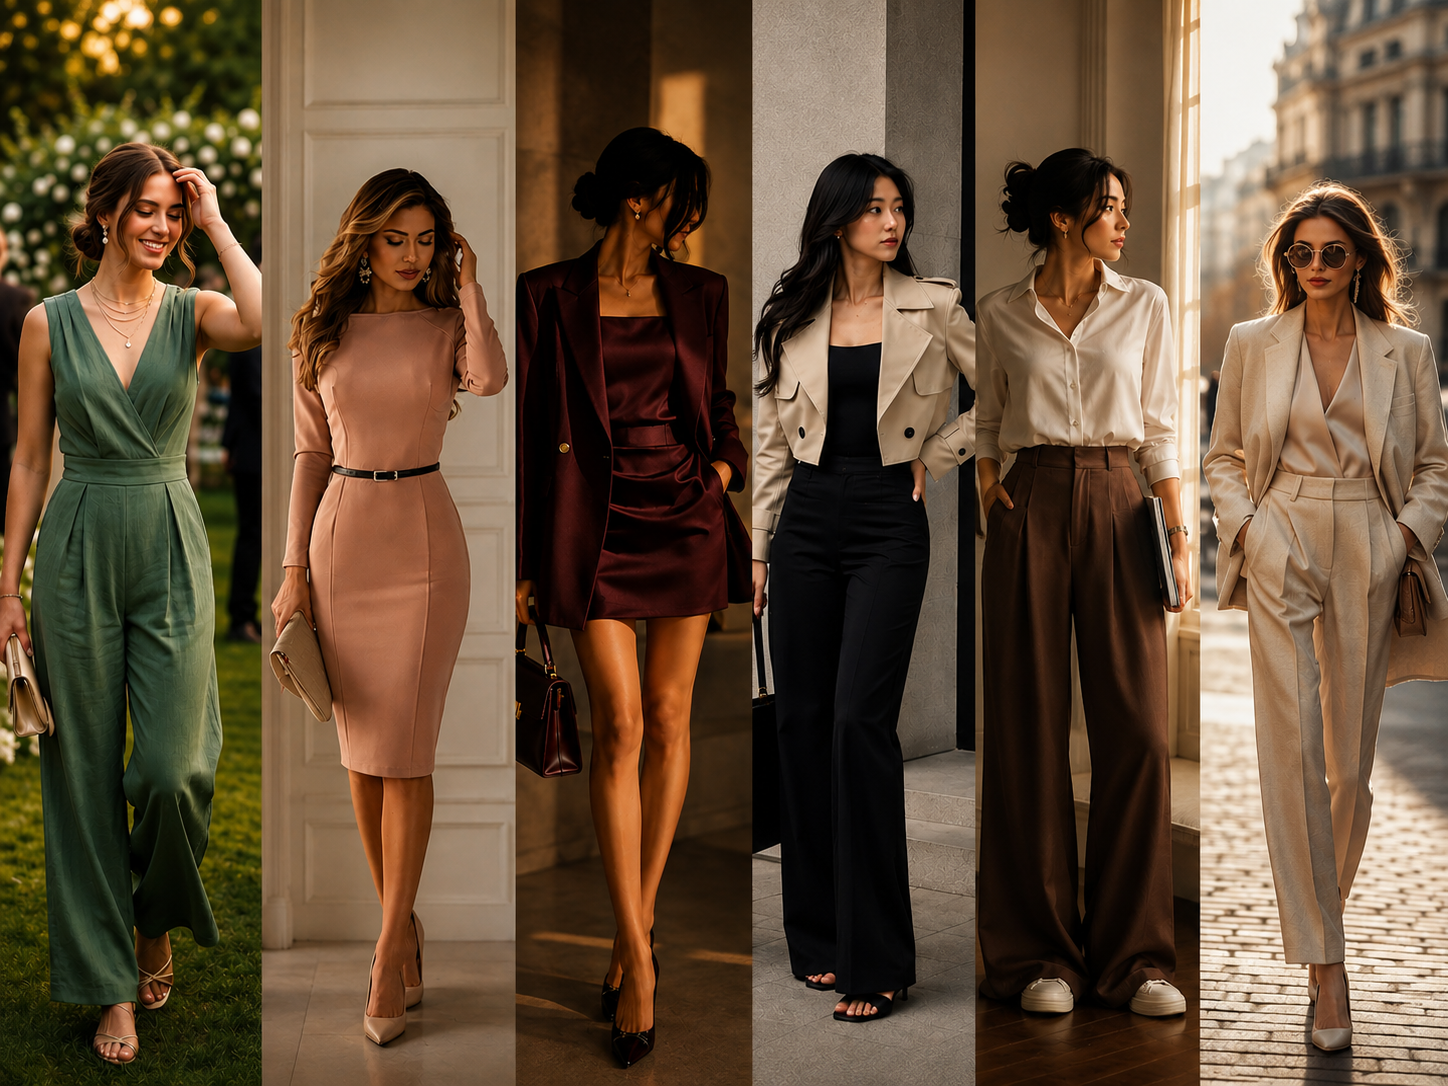
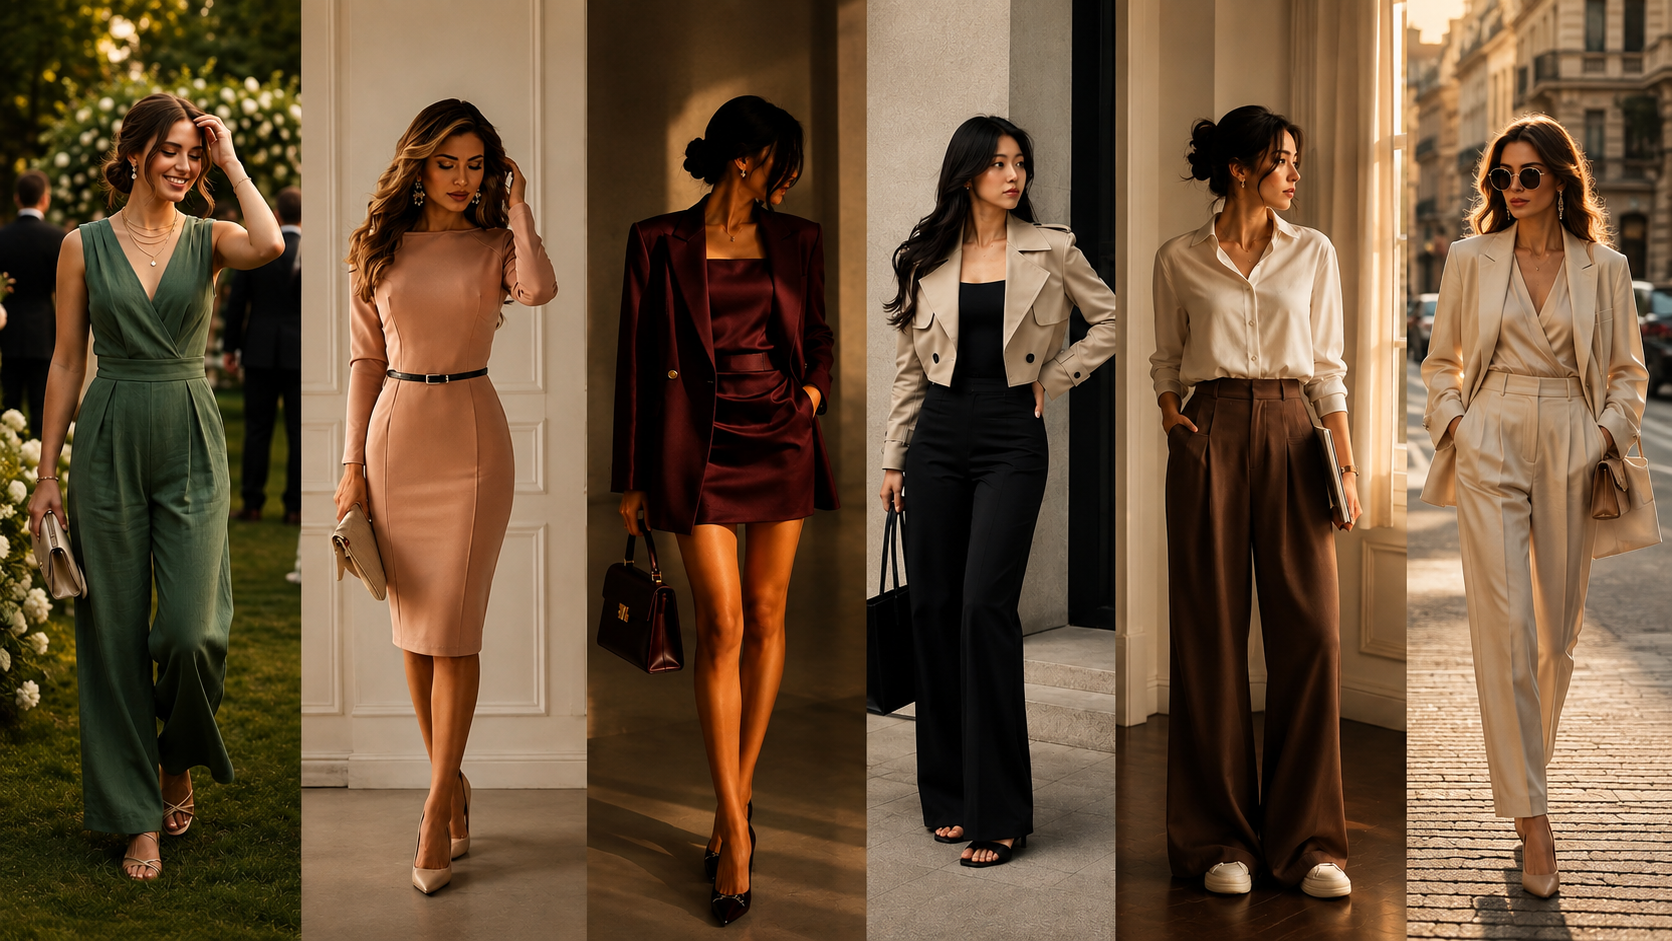
Change image position to object-top to prevent head cropping

diff --git a/frontend/src/screens/HomeScreen.jsx b/frontend/src/screens/HomeScreen.jsx
@@ -227,7 +227,7 @@ export default function HomeScreen() {
             onClick={() => navigate('/onboarding', { state: { resetStep: true } })} 
             className="group cursor-pointer relative overflow-hidden rounded-2xl md:col-span-2 h-[260px] md:h-[300px] shadow-[0_4px_24px_rgba(0,0,0,0.08)]"
           >
-             <img src="/DISCOVER COLLECTION IMAGE.png" alt="DISCOVER COLLECTION" className="absolute inset-0 w-full h-full object-cover object-center group-hover:scale-105 transition-transform duration-700" />
+             <img src="/DISCOVER COLLECTION IMAGE.png" alt="DISCOVER COLLECTION" className="absolute inset-0 w-full h-full object-cover object-top group-hover:scale-105 transition-transform duration-700" />
              <div className="absolute inset-0 bg-gradient-to-t from-black/80 via-black/20 to-transparent"></div>
              <div className="absolute bottom-0 left-0 right-0 p-6 md:p-8 z-10">
                 <h4 className="text-[1.6rem] lg:text-[2.2rem] tracking-wide text-white mb-2 leading-tight" style={{ fontFamily: "'Cormorant Garamond', serif", fontWeight: 700 }}>DISCOVER COLLECTION</h4>
